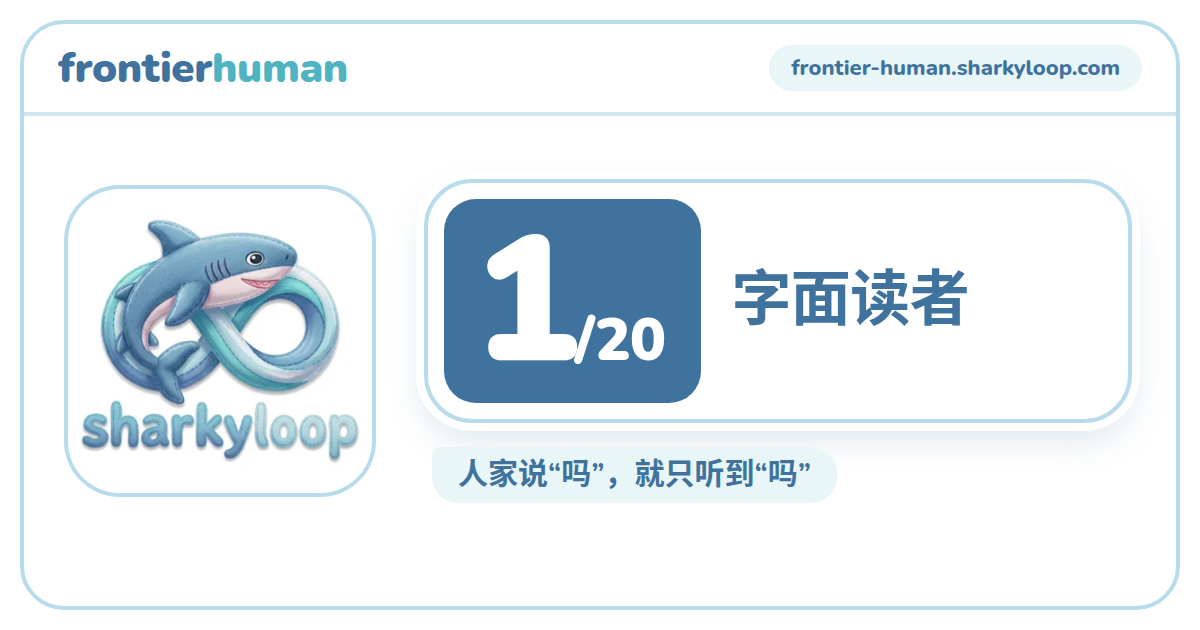
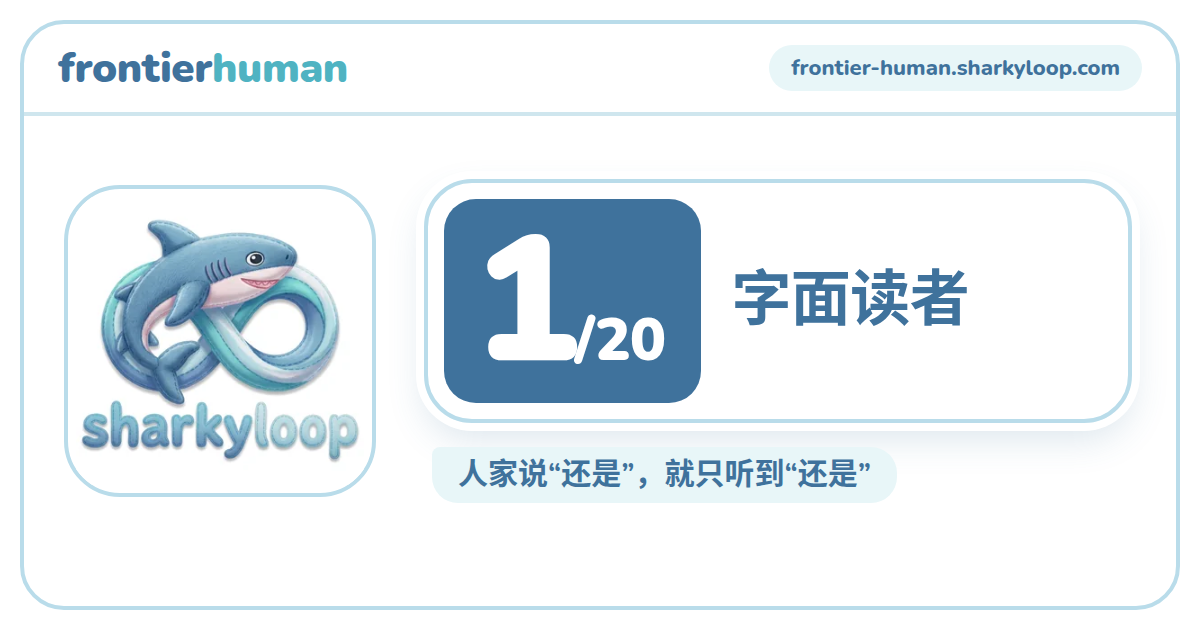
Render trailing "or" as 还是 in the Chinese version (wish from @edward40e)
A lone 吗 is not something people type. 还是 is the word Chinese uses for
"or" in a question, and left hanging it trails off the way the English
reply does. Updates the five items, the headline example, the share
lines and the Chinese covers.

Changed region(s): [[0.4625, 0.7238, 0.74, 0.7841]]

diff --git a/site/index.html b/site/index.html
@@ -41,7 +41,7 @@
   <meta property="og:url" content="https://frontier-human.sharkyloop.com/" />
   <meta property="og:locale" content="en_US" />
   <meta property="og:locale:alternate" content="zh_CN" />
-  <meta property="og:image" content="https://frontier-human.sharkyloop.com/covers/default-en.png?v=4" />
+  <meta property="og:image" content="https://frontier-human.sharkyloop.com/covers/default-en.png?v=5" />
   <meta property="og:image:type" content="image/png" />
   <meta property="og:image:width" content="1200" />
   <meta property="og:image:height" content="630" />
@@ -49,7 +49,7 @@
   <meta name="twitter:card" content="summary_large_image" />
   <meta name="twitter:title" content="FrontierHuman · What did they mean?" />
   <meta name="twitter:description" content="20 terse replies to an AI agent's clarifying questions. Read them the way a strong agent would." />
-  <meta name="twitter:image" content="https://frontier-human.sharkyloop.com/covers/default-en.png?v=4" />
+  <meta name="twitter:image" content="https://frontier-human.sharkyloop.com/covers/default-en.png?v=5" />
   <meta name="twitter:image:alt" content="FrontierHuman: Agent asks “Should I cancel the dinner reservation? Yes or no?” Human replies “or”." />
   <link rel="alternate" hreflang="en" href="https://frontier-human.sharkyloop.com/" />
   <link rel="alternate" hreflang="zh-CN" href="https://frontier-human.sharkyloop.com/zh/" />
@@ -57,7 +57,7 @@
   <link rel="icon" href="favicon.svg" type="image/svg+xml" />
   <link rel="icon" href="favicon-32.png" type="image/png" sizes="32x32" />
   <link rel="apple-touch-icon" href="apple-touch-icon.png" />
-  <link rel="stylesheet" href="styles.css?v=15" />
+  <link rel="stylesheet" href="styles.css?v=16" />
 </head>
 <body>
   <header class="bar">
@@ -93,7 +93,7 @@
   </footer>
 
   <script src="vendor/qrcode.js"></script>
-  <script src="app.js?v=15" type="module"></script>
-  <script src="wish.js?v=15" type="module"></script>
+  <script src="app.js?v=16" type="module"></script>
+  <script src="wish.js?v=16" type="module"></script>
 </body>
 </html>

diff --git a/site/rubric.js b/site/rubric.js
@@ -37,7 +37,7 @@ export const SHARE_QUIP = {
     strong: "基本能读懂空气",
     context: "一半时候能听懂",
     leaning: "把“行吧……”当成了同意",
-    literal: "人家说“吗”，就只听到“吗”"
+    literal: "人家说“还是”，就只听到“还是”"
   }
 };
 
@@ -52,10 +52,10 @@ const SHARE_LINE = {
   },
   zh: {
     agent: "“行吧……”到底行不行，我听得出来。你呢？",
-    strong: "Agent 问了一句，人只回了个“吗”，我基本都猜对了。到你了。",
-    context: "原来“要吗”不等于“要”。何意味？",
+    strong: "Agent 问了一句，人只回了个“还是”，我基本都猜对了。到你了。",
+    context: "原来“要，还是”不等于“要”。何意味？",
     leaning: "我把“行吧……”当成了同意，结果并不是。你能比我强吗？",
-    literal: "人家回了个“吗”，我就只听到了“吗”。来试试？"
+    literal: "人家回了个“还是”，我就只听到了“还是”。来试试？"
   }
 };
 

diff --git a/site/app.js b/site/app.js
@@ -74,8 +74,8 @@ const I18N = {
     title: "FrontierHuman · 何意味？",
     research: "研究",
     h1: "何<mark>意味？</mark>",
-    demoQ: "要我取消晚餐的预订吗？取消吗？",
-    demoA: "吗",
+    demoQ: "要我取消晚餐的预订吗？取消还是不取消？",
+    demoA: "还是",
     agent: "Agent",
     human: "人类",
     start: (n) => `开始 ${n} 题 →`,
@@ -124,7 +124,7 @@ const I18N = {
     shareText: SHARE_TEXT.zh,
     bands: BAND_TEXT.zh,
     criteria: {
-      or: "能把“吗”读成委婉拒绝、指向已提过的方案，或请你解释。",
+      or: "能把“还是”读成委婉拒绝、指向已提过的方案，或请你解释。",
       nonanswer: "能从“嗯”“两个都？”“等等，不对”里还原真实选择，而不是硬选一个。",
       ordinal: "把字母和数字对应到定义它们的那个列表。",
       anaphora: "把“那个”对应到话题本身，把“等等…”当作更正。",

diff --git a/README.md b/README.md
@@ -6,7 +6,7 @@ An intent-detection benchmark for humans. An AI agent asks a clarifying question
 
 - 20 items across six categories: trailing "or", non-answers, ordinal reference, pointers & repair, implicit constraint, sarcasm & hedging. All are set in everyday errands an assistant might run (dinner bookings, travel, deliveries, family calendars), not in code.
 - 15 hard and 5 medium. Each wrong option is a documented agent failure mode, and many are the answer a strong model would give.
-- English and Simplified Chinese (EN / 中 toggle; defaults to the browser language). The Chinese items are adapted, not word-for-word, so each keeps its ambiguity (trailing "or" becomes a bare 吗).
+- English and Simplified Chinese (EN / 中 toggle; defaults to the browser language). The Chinese items are adapted, not word-for-word, so each keeps its ambiguity (trailing "or" becomes a hanging 还是).
 - The report shows your score, verdict, a rubric of all five bands with yours highlighted, comparisons with strong-agent and literal-reader baselines, per-category criteria and an explanation for every item.
 - Magic link: finishing puts `?r=<version>.<code>` in the URL. The code packs your answers (2 bits each, plus a checksum) in base64url, so the link rebuilds the same report on any device with no backend. Links from an older version of the exam, or damaged links, show a notice instead.
 - Share to X, LinkedIn, Facebook, Reddit, Weibo, WeChat (QR code) or the system share sheet. The share text and the cover carry a line that depends on the score band (`SHARE_TEXT` and `SHARE_QUIP` in `site/rubric.js`). Shared links point at a static page per score and language (`/s/<score>/?r=…`, `/s/<score>/zh/?r=…`) whose Open Graph and Twitter tags show that score's cover, and the page opens the full report.

diff --git a/research.md b/research.md
@@ -66,7 +66,7 @@ Distilled from the work above and from common coding-agent transcripts (Cursor, 
 
 The Simplified Chinese items (`site/data/items.zh.json`) are adapted, not translated word for word, so each reply stays ambiguous in the same way:
 
-- Turn-final "or" becomes a bare or turn-final 吗 ("吗", "吗？", "要吗", "不要吗"). Said alone, the question particle hands the question back without committing, which carries the same open, hedged force as Drake's trailing "or". 还是 stays only where it is the ordinary connector in an A-or-B question.
+- Turn-final "or" becomes a bare or turn-final 还是 ("还是", "还是……？", "要，还是", "不要，还是"), the word Chinese uses for "or" in a question. Left hanging, it trails off the same way Drake's "or" does: it can decline softly, point at an alternative, or hand the question back. An earlier version used a bare 吗 here; it was changed because a lone 吗 is not something people type.
 - The non-committal "yes" becomes 嗯, which can mean "agreed", "I'm listening" or "both are fine" depending on the turn before.
 - Hedges keep their sentence-final particles (行吧……, 那就 b 吧……), since 吧 and the trailing ellipsis carry the reluctance that "sure…" and "I guess" carry in English.
 - Option letters, file names and other technical tokens stay in Latin script, as they would in a Chinese engineering chat.
